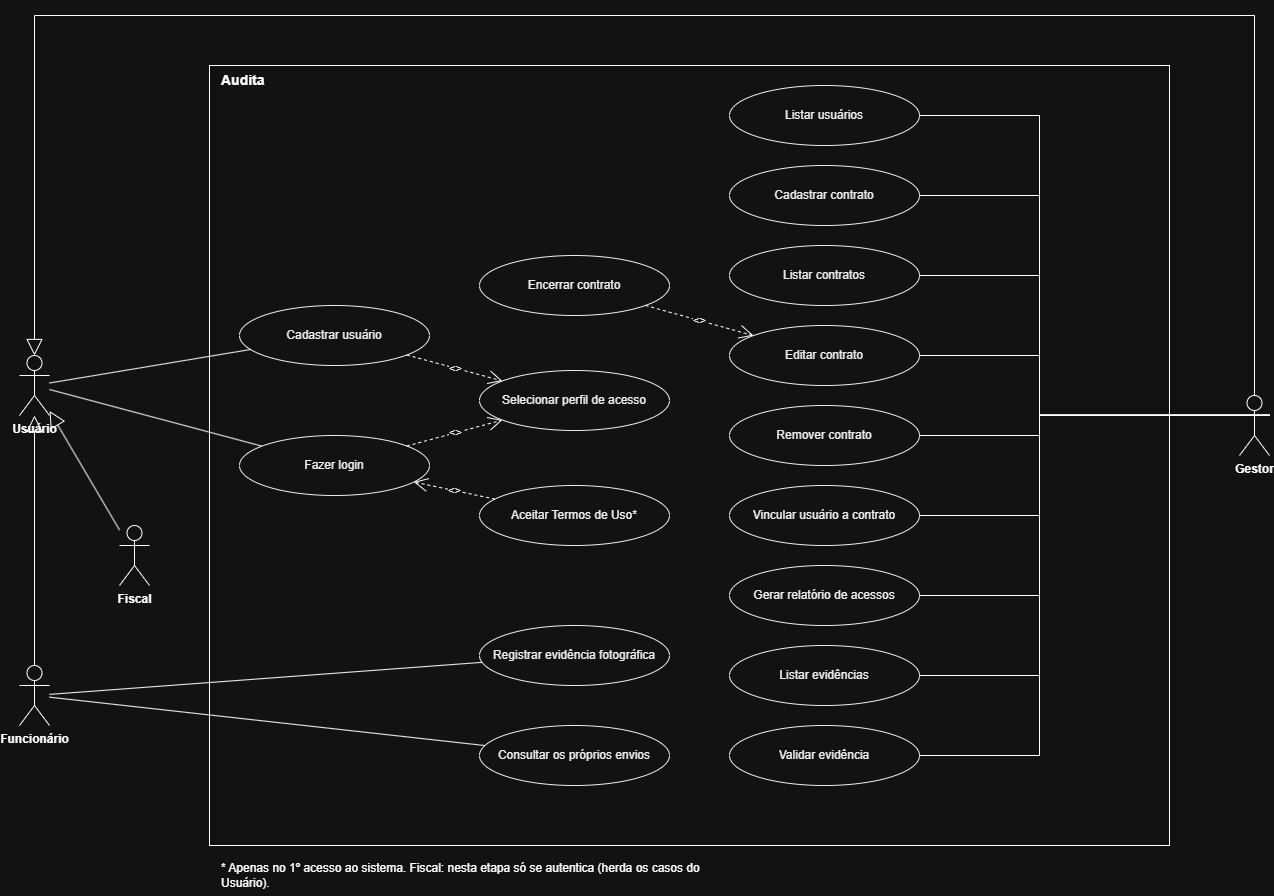
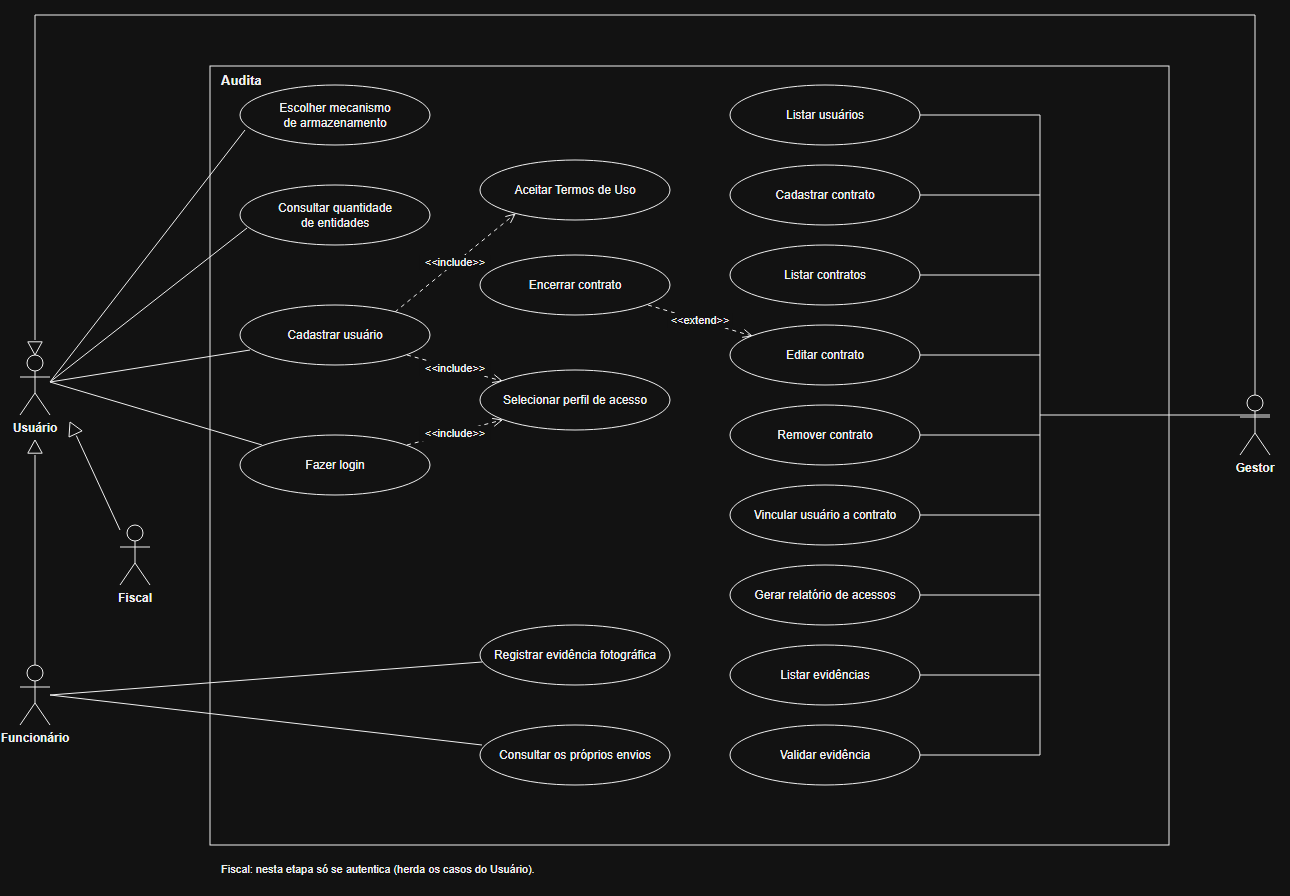
docs(diagramas): atualizar casos de uso e classes até a Sprint 3
O diagrama de análise passa a cobrir as duas entidades e a fachada, o de casos de uso inclui RF 14 e RF 16, e os de projeto são alinhados ao código. Os PNGs foram redesenhados no estilo anterior porque os .drawio não estão no repositório.

diff --git a/docs/05-analise.md b/docs/05-analise.md
@@ -1,15 +1,38 @@
 # 05 · Análise
 
-## Diagrama de classes de análise do gerenciamento de usuários
+## Diagrama de classes de análise
 
-![Diagrama de classes de análise do gerenciamento de usuários](diagramas/classes-analise-usuarios.png)
+Considera o sistema até a Sprint 3: o CRUD de duas entidades (`Usuario` e `Contrato`) e a fachada única, com os padrões Facade e Singleton.
+
+![Diagrama de classes de análise do Audita](diagramas/classes-analise.png)
 
 ```mermaid
 classDiagram
     class UsuarioFronteira {
         <<Boundary>>
     }
+    class AutenticacaoFronteira {
+        <<Boundary>>
+    }
+    class PainelFronteira {
+        <<Boundary>>
+    }
+    class ContratoFronteira {
+        <<Boundary>>
+    }
+    class FacadeSingletonController {
+        <<Control, Facade, Singleton>>
+    }
     class UsuarioController {
+        <<Control>>
+    }
+    class AutenticacaoController {
+        <<Control>>
+    }
+    class ContratoController {
+        <<Control>>
+    }
+    class ControleAcesso {
         <<Control>>
     }
     class Usuario {
@@ -18,12 +41,47 @@ classDiagram
     class Perfil {
         <<Enumeration>>
     }
-    UsuarioFronteira --> UsuarioController
+    class Acesso {
+        <<Entity>>
+    }
+    class ResultadoAcesso {
+        <<Enumeration>>
+    }
+    class Contrato {
+        <<Entity>>
+    }
+    class SituacaoContrato {
+        <<Enumeration>>
+    }
+    class Evidencia {
+        <<Entity>>
+    }
+    UsuarioFronteira --> AutenticacaoFronteira : login
+    AutenticacaoFronteira --> PainelFronteira : abre
+    PainelFronteira --> ContratoFronteira : ações do Gestor
+    UsuarioFronteira --> FacadeSingletonController
+    AutenticacaoFronteira --> FacadeSingletonController
+    ContratoFronteira --> FacadeSingletonController
+    FacadeSingletonController --> UsuarioController
+    FacadeSingletonController --> AutenticacaoController
+    FacadeSingletonController --> ContratoController
+    PainelFronteira --> ControleAcesso
+    UsuarioController --> ControleAcesso
+    ContratoController --> ControleAcesso
     UsuarioController ..> Usuario : cria
+    AutenticacaoController ..> Usuario : autentica
+    AutenticacaoController ..> Acesso : cria
+    ContratoController ..> Contrato : cria
+    ContratoController ..> Evidencia : consulta
     Usuario --> Perfil
+    Acesso --> ResultadoAcesso
+    Acesso --> Usuario
+    Contrato --> SituacaoContrato
+    Contrato --> "0..*" Usuario : usuarios_vinculados
+    Evidencia --> Contrato
 ```
 
-O diagrama de análise mostra só os nomes das classes, nos estereótipos fronteira, controle e entidade, sem atributos nem métodos. O que cada classe faz está descrito nas tabelas abaixo. Os detalhes de projeto (validadores, exceções e repositórios) estão no [diagrama de classes de projeto](08-projeto.md#2-diagrama-de-classes-de-projeto).
+O diagrama de análise mostra só os nomes das classes, nos estereótipos fronteira, controle e entidade, sem atributos nem métodos. O que cada classe faz está descrito nas tabelas abaixo. Os detalhes de projeto (validadores, exceções e repositórios) estão nos [diagramas de classes de projeto](08-projeto.md#2-diagrama-de-classes-de-projeto).
 
 ## Classes por estereótipo
 
@@ -31,32 +89,52 @@ O diagrama de análise mostra só os nomes das classes, nos estereótipos fronte
 
 | Classe | Responsabilidade |
 |--------|------------------|
-| `UsuarioFronteira` | Menu de console: cadastrar e listar usuários. Lê os dados, monta o `DadosCadastroUsuario` e mostra as mensagens de sucesso e de erro. |
+| `UsuarioFronteira` | Menu principal de console: cadastrar usuário, ver os termos, entrar, ver a quantidade de entidades e listar usuários. Lê os dados, monta o `DadosCadastroUsuario` e mostra as mensagens de sucesso e de erro. |
+| `AutenticacaoFronteira` | Tela de login: lê o identificador, a senha e o perfil e, em caso de sucesso, abre o painel. |
+| `PainelFronteira` | Mostra só as ações que o perfil do usuário autenticado pode executar. |
+| `ContratoFronteira` | Telas de cadastrar, listar, editar, encerrar e remover contrato e de vincular e desvincular usuário. Monta o `DadosCadastroContrato`. |
 
 ### Controle (`<<Control>>`)
 
 | Classe | Responsabilidade |
 |--------|------------------|
-| `UsuarioController` | Coordena o cadastro (valida, cria o `Usuario`, grava) e a listagem. |
-| `ValidadorCadastroUsuario` | Aplica, em ordem, as regras de cada campo. |
-| Validadores (`ValidadorLogin`, `ValidadorSenha`, `ValidadorCpf`, `ValidadorEmail`, `ValidadorPerfil`, `ValidadorCampoObrigatorio`, `ValidadorUnicidade`) | Uma regra por classe, todos implementando `Validador`. |
+| `FacadeSingletonController` | **Facade:** ponto único de acesso das fronteiras aos controllers. **Singleton:** uma só instância em toda a aplicação. Informa a quantidade de entidades cadastradas ([ADR 0002](adr/0002-fachada-unica.md)). |
+| `UsuarioController` | Coordena o cadastro (valida, cria o `Usuario`, grava) e a listagem de usuários. |
+| `AutenticacaoController` | Confere as credenciais e registra cada tentativa de login como um `Acesso`. |
+| `ContratoController` | Coordena o CRUD de contratos e os vínculos com usuários. |
+| `ControleAcesso` | Confere se o perfil do usuário pode executar a operação. |
+| `ValidadorCadastroUsuario` e `ValidadorCadastroContrato` | Aplicam, em ordem, as regras de cada campo. |
+| Validadores (`ValidadorLogin`, `ValidadorSenha`, `ValidadorCpf`, `ValidadorEmail`, `ValidadorPerfil`, `ValidadorCampoObrigatorio`, `ValidadorUnicidade`, `ValidadorNumeroContrato`, `ValidadorEmpresaContratada`, `ValidadorVigencia`, `ValidadorArquivoContrato`) | Uma regra por classe. |
 
 ### Entidade (`<<Entity>>`)
 
 | Classe | Responsabilidade |
 |--------|------------------|
-| `Usuario` | Dados do usuário (id, nome, CPF, e-mail, login, senha, perfil e situação). Não imprime a senha. |
+| `Usuario` | Dados do usuário (id, nome, CPF, e-mail, login, hash da senha, perfil, situação e aceite dos termos). Não imprime a senha. |
 | `Perfil` | Enumeração `GESTOR`, `FISCAL`, `FUNCIONARIO`. |
+| `Acesso` | Registro de uma tentativa de login. |
+| `ResultadoAcesso` | Enumeração `SUCESSO`, `CREDENCIAIS_INVALIDAS`, `BLOQUEADO`. |
+| `Contrato` | Dados do contrato (número, empresa, vigência, arquivo e situação) e os usuários vinculados. |
+| `SituacaoContrato` | Enumeração `ATIVO`, `ENCERRADO`. |
+| `Evidencia` | Evidência fotográfica de um contrato. Nesta etapa, só é consultada para decidir se o contrato pode ser removido e entra na contagem de entidades. |
 
 ### Apoio
 
 | Classe | Responsabilidade |
 |--------|------------------|
-| `DadosCadastroUsuario` | DTO que leva os campos digitados da fronteira ao controle. |
+| `DadosCadastroUsuario` e `DadosCadastroContrato` | DTOs que levam os campos digitados da fronteira ao controle. |
 
-## Fluxo do cadastro
+## Fluxo do cadastro de usuário
 
 1. `UsuarioFronteira` lê os campos e cria o `DadosCadastroUsuario`.
-2. `UsuarioController.adicionar` normaliza os dados e chama `ValidadorCadastroUsuario.validar`.
-3. Cada validador lança a exceção da sua regra (`ValidacaoError`), que a fronteira mostra sem encerrar o programa.
-4. Passando em todas as regras, o controller cria o `Usuario` e o grava pelo repositório.
+2. A fronteira chama a fachada, que delega a `UsuarioController.adicionar`.
+3. O controller normaliza os dados e chama `ValidadorCadastroUsuario.validar`.
+4. Cada validador lança a exceção da sua regra (`ValidacaoError`), que a fronteira mostra sem encerrar o programa.
+5. Passando em todas as regras, o controller cria o `Usuario` e o grava pelo repositório.
+
+## Fluxo do cadastro de contrato
+
+1. `ContratoFronteira` lê os campos e cria o `DadosCadastroContrato`.
+2. A fronteira chama a fachada, que delega a `ContratoController.adicionar`.
+3. O controller confere a permissão em `ControleAcesso` e valida os dados com `ValidadorCadastroContrato`.
+4. Passando nas regras, o controller cria o `Contrato` com situação `ATIVO`, o grava pelo repositório e registra a operação no log de auditoria.

diff --git a/docs/08-projeto.md b/docs/08-projeto.md
@@ -23,7 +23,7 @@ src/
 
 ![Diagrama de classes de projeto do gerenciamento de usuários](diagramas/classes-projeto-usuarios.png)
 
-O diagrama mostra as camadas, os validadores com as exceções que cada um lança, a hierarquia de exceções de validação e os dois mecanismos de persistência com as exceções de armazenamento.
+O diagrama mostra as camadas, os validadores com as exceções que cada um lança, a hierarquia de exceções de validação, os dois mecanismos de persistência com as exceções de armazenamento, e a autenticação com o controle de acesso.
 
 As duas partes que mais importam estão também abaixo, para leitura no GitHub.
 
@@ -48,15 +48,19 @@ classDiagram
     ValidacaoError <|-- ArquivoInvalidoError
     ValidacaoError <|-- PerfilNaoVinculavelError
     ValidacaoError <|-- UltimoFiscalError
+    ValidacaoError <|-- ContratoJaEncerradoError
+    ValidacaoError <|-- SituacaoInvalidaError
     Exception <|-- AcessoNegadoError
+    Exception <|-- CredenciaisInvalidasError
     ValidacaoError <|-- LoginInvalidoError
     ValidacaoError <|-- SenhaInvalidaError
     LoginInvalidoError <|-- LoginVazioError
     LoginInvalidoError <|-- LoginMuitoLongoError
     LoginInvalidoError <|-- LoginComNumerosError
-    SenhaInvalidaError <|-- SenhaMuitoCurtaError
-    SenhaInvalidaError <|-- SenhaMuitoLongaError
-    SenhaInvalidaError <|-- SenhaComPoucosTiposError
+    SenhaInvalidaError <|-- SenhaForaDaPoliticaError
+    SenhaForaDaPoliticaError <|-- SenhaMuitoCurtaError
+    SenhaForaDaPoliticaError <|-- SenhaMuitoLongaError
+    SenhaForaDaPoliticaError <|-- SenhaComPoucosTiposError
     SenhaInvalidaError <|-- SenhaIgualLoginError
     SenhaInvalidaError <|-- SenhasDiferentesError
     PersistenciaError <|-- ConexaoPersistenciaError
@@ -74,6 +78,7 @@ classDiagram
         <<interface>>
         +listar_todos() list
         +buscar_por_cpf(cpf) Usuario
+        +buscar_por_login(login) Usuario
         +buscar_por_email(email) Usuario
     }
     class PersistenciaUsuarios {
@@ -101,6 +106,13 @@ A mesma estrutura, em Mermaid, para leitura direta no GitHub:
 
 ```mermaid
 classDiagram
+    class Usuario {
+        <<Entity>>
+    }
+    class Evidencia {
+        <<Entity>>
+        numero_contrato
+    }
     class Contrato {
         <<Entity>>
         id
@@ -135,11 +147,13 @@ classDiagram
         <<Control>>
         +adicionar(solicitante, dados) Contrato
         +listar(solicitante, busca, situacao, pagina) ResultadoPaginado
-        +atualizar(solicitante, numero, dados) Contrato
+        +buscar_por_numero(solicitante, numero) Contrato
+        +atualizar(solicitante, numero_atual, dados, nova_situacao) Contrato
         +encerrar(solicitante, numero) Contrato
         +remover(solicitante, numero, confirmado) bool
         +vincular(solicitante, numero, id_usuario)
         +desvincular(solicitante, numero, id_usuario)
+        +contar() int
     }
     class ValidadorCadastroContrato {
         <<Control>>
@@ -166,8 +180,25 @@ classDiagram
     }
     class UsuarioController
     class AutenticacaoController
+    class ContratoFronteira
+    class UsuarioFronteira
+    class AutenticacaoFronteira
+    class EvidenciaRepositorio {
+        <<interface>>
+    }
+    class UsuarioRepositorio {
+        <<interface>>
+    }
 
     Contrato --> SituacaoContrato
+    Contrato --> "0..*" Usuario : usuarios_vinculados
+    Evidencia --> Contrato : numero_contrato
+    ContratoFronteira --> FacadeSingletonController
+    UsuarioFronteira --> FacadeSingletonController
+    AutenticacaoFronteira --> FacadeSingletonController
+    FacadeSingletonController --> EvidenciaRepositorio
+    ContratoController --> EvidenciaRepositorio
+    ContratoController --> UsuarioRepositorio
     ConsultaContratos <|-- ContratoRepositorio
     PersistenciaContratos <|-- ContratoRepositorio
     ContratoRepositorio <|.. ContratoRepositorioMemoria

diff --git a/docs/04-casos-de-uso/casos-de-uso-completo.md b/docs/04-casos-de-uso/casos-de-uso-completo.md
@@ -18,6 +18,8 @@ flowchart LR
         Login(Fazer login)
         Perfil(Selecionar perfil de acesso)
         Termos(Aceitar Termos de Uso)
+        Armaz(Escolher mecanismo de armazenamento)
+        Quant(Consultar quantidade de entidades)
         ListUsu(Listar usuários)
         CadCon(Cadastrar contrato)
         ListCon(Listar contratos)
@@ -34,9 +36,11 @@ flowchart LR
 
     Usuario --- CadUsu
     Usuario --- Login
+    Usuario --- Armaz
+    Usuario --- Quant
     CadUsu -.->|include| Perfil
     Login -.->|include| Perfil
-    Termos -.->|extend| Login
+    CadUsu -.->|include| Termos
     EncCon -.->|extend| EditCon
     Gestor --- ListUsu & CadCon & ListCon & EditCon & RemCon & Vinc & Relat & ListEv & Valida
     Func --- RegEv & Envios
@@ -46,7 +50,10 @@ flowchart LR
 
 | Ator | Casos de uso | Requisitos |
 |------|--------------|------------|
-| Usuário (todos os perfis) | Cadastrar usuário, Fazer login, Selecionar perfil de acesso, Aceitar Termos de Uso | RF 01, RF 02 |
+| Usuário (todos os perfis) | Cadastrar usuário, Aceitar Termos de Uso | RF 01 |
+| Usuário (todos os perfis) | Fazer login, Selecionar perfil de acesso | RF 02 |
+| Usuário (todos os perfis) | Escolher mecanismo de armazenamento | RF 14 |
+| Usuário (todos os perfis) | Consultar quantidade de entidades | RF 16 |
 | Gestor | Listar usuários | RF 13 |
 | Gestor | Cadastrar, listar, editar, encerrar e remover contrato; vincular usuário a contrato | RF 04 a RF 08 |
 | Gestor | Listar e validar evidências | RF 10, RF 11 |
@@ -54,9 +61,11 @@ flowchart LR
 | Funcionário | Registrar evidência fotográfica; consultar os próprios envios | RF 09, RF 12 |
 | Fiscal | Nesta etapa, só os casos de uso do Usuário (a abertura de chamados é versão futura) | RF 03 |
 
-As permissões por perfil seguem o RF 03. Os casos de uso de evidência (RF 09 a RF 12) aparecem no diagrama porque fazem parte do escopo do documento de requisitos, mas serão detalhados quando forem implementados.
+O RF 03 (controle de acesso por perfil) não é um caso de uso próprio: é a regra que define qual ator liga a cada caso de uso no diagrama. Os casos de uso de evidência (RF 09 a RF 12) aparecem no diagrama porque fazem parte do escopo do documento de requisitos, mas serão detalhados quando forem implementados.
 
 ## Casos de uso detalhados
+
+Os três casos de uso mais relevantes nesta etapa foram escolhidos porque cobrem as duas entidades com CRUD e a relação entre elas: sem usuário cadastrado ninguém acessa o sistema, o contrato é a entidade central da fiscalização, e o vínculo define quem atua em cada contrato.
 
 - [UC01 · Cadastrar usuário](uc01-cadastrar-usuario.md)
 - [UC02 · Cadastrar contrato](uc02-cadastrar-contrato.md)

diff --git a/docs/04-casos-de-uso/README.md b/docs/04-casos-de-uso/README.md
@@ -4,7 +4,7 @@
 
 ![Diagrama de casos de uso do Audita](../diagramas/casos-de-uso.png)
 
-O diagrama traz todos os casos de uso do sistema ([lista completa](casos-de-uso-completo.md)). Os casos de uso do gerenciamento de usuários são Cadastrar usuário, Fazer login, Selecionar perfil de acesso e Aceitar Termos de Uso, descritos abaixo.
+O diagrama traz todos os casos de uso do sistema ([lista completa](casos-de-uso-completo.md)). Os casos de uso do gerenciamento de usuários são os descritos abaixo.
 
 ### Atores
 
@@ -15,9 +15,10 @@ O diagrama traz todos os casos de uso do sistema ([lista completa](casos-de-uso-
 
 | Caso de uso | Descrição | Relações |
 |-------------|-----------|----------|
-| Realizar Cadastro | O usuário cria a conta informando nome, CPF, e-mail, login, senha, confirmação da senha e perfil. As regras de login e senha estão em [`openspec/specs/usuarios`](../../openspec/specs/usuarios/spec.md). | `<<include>>` Selecionar Perfil de Acesso |
-| Selecionar Perfil de Acesso | O usuário escolhe um dos perfis (Funcionário, Fiscal ou Gestor). | Incluído pelo cadastro e pelo login |
-| Fazer Login | O usuário entra no sistema. | `<<include>>` Selecionar Perfil de Acesso |
-| Aceitar Termos de Uso | O usuário aceita os Termos de Uso e a Política de Privacidade. Só é exigido no primeiro acesso ao sistema. | `<<extend>>` Fazer Login |
-
-A listagem de usuários e a escolha do mecanismo de persistência são requisitos da spec de usuários e, nesta etapa, não têm caso de uso próprio no diagrama.
+| Cadastrar usuário | O usuário cria a conta informando nome, CPF, e-mail, login, senha, confirmação da senha e perfil. As regras de login e senha estão em [`openspec/specs/usuarios`](../../openspec/specs/usuarios/spec.md). | `<<include>>` Selecionar perfil de acesso e Aceitar Termos de Uso |
+| Selecionar perfil de acesso | O usuário escolhe um dos perfis (Funcionário, Fiscal ou Gestor). | Incluído pelo cadastro e pelo login |
+| Fazer login | O usuário entra no sistema. | `<<include>>` Selecionar perfil de acesso |
+| Aceitar Termos de Uso | O usuário aceita os Termos de Uso e a Política de Privacidade. O aceite é exigido no cadastro (RF 01). | Incluído pelo cadastro |
+| Listar usuários | O gestor vê os usuários cadastrados (RF 13). | |
+| Escolher mecanismo de armazenamento | Ao iniciar, o usuário escolhe entre SQLite e memória (RF 14). | |
+| Consultar quantidade de entidades | O usuário vê o total e a quantidade de cada tipo de entidade, sem precisar de login (RF 16). | |
